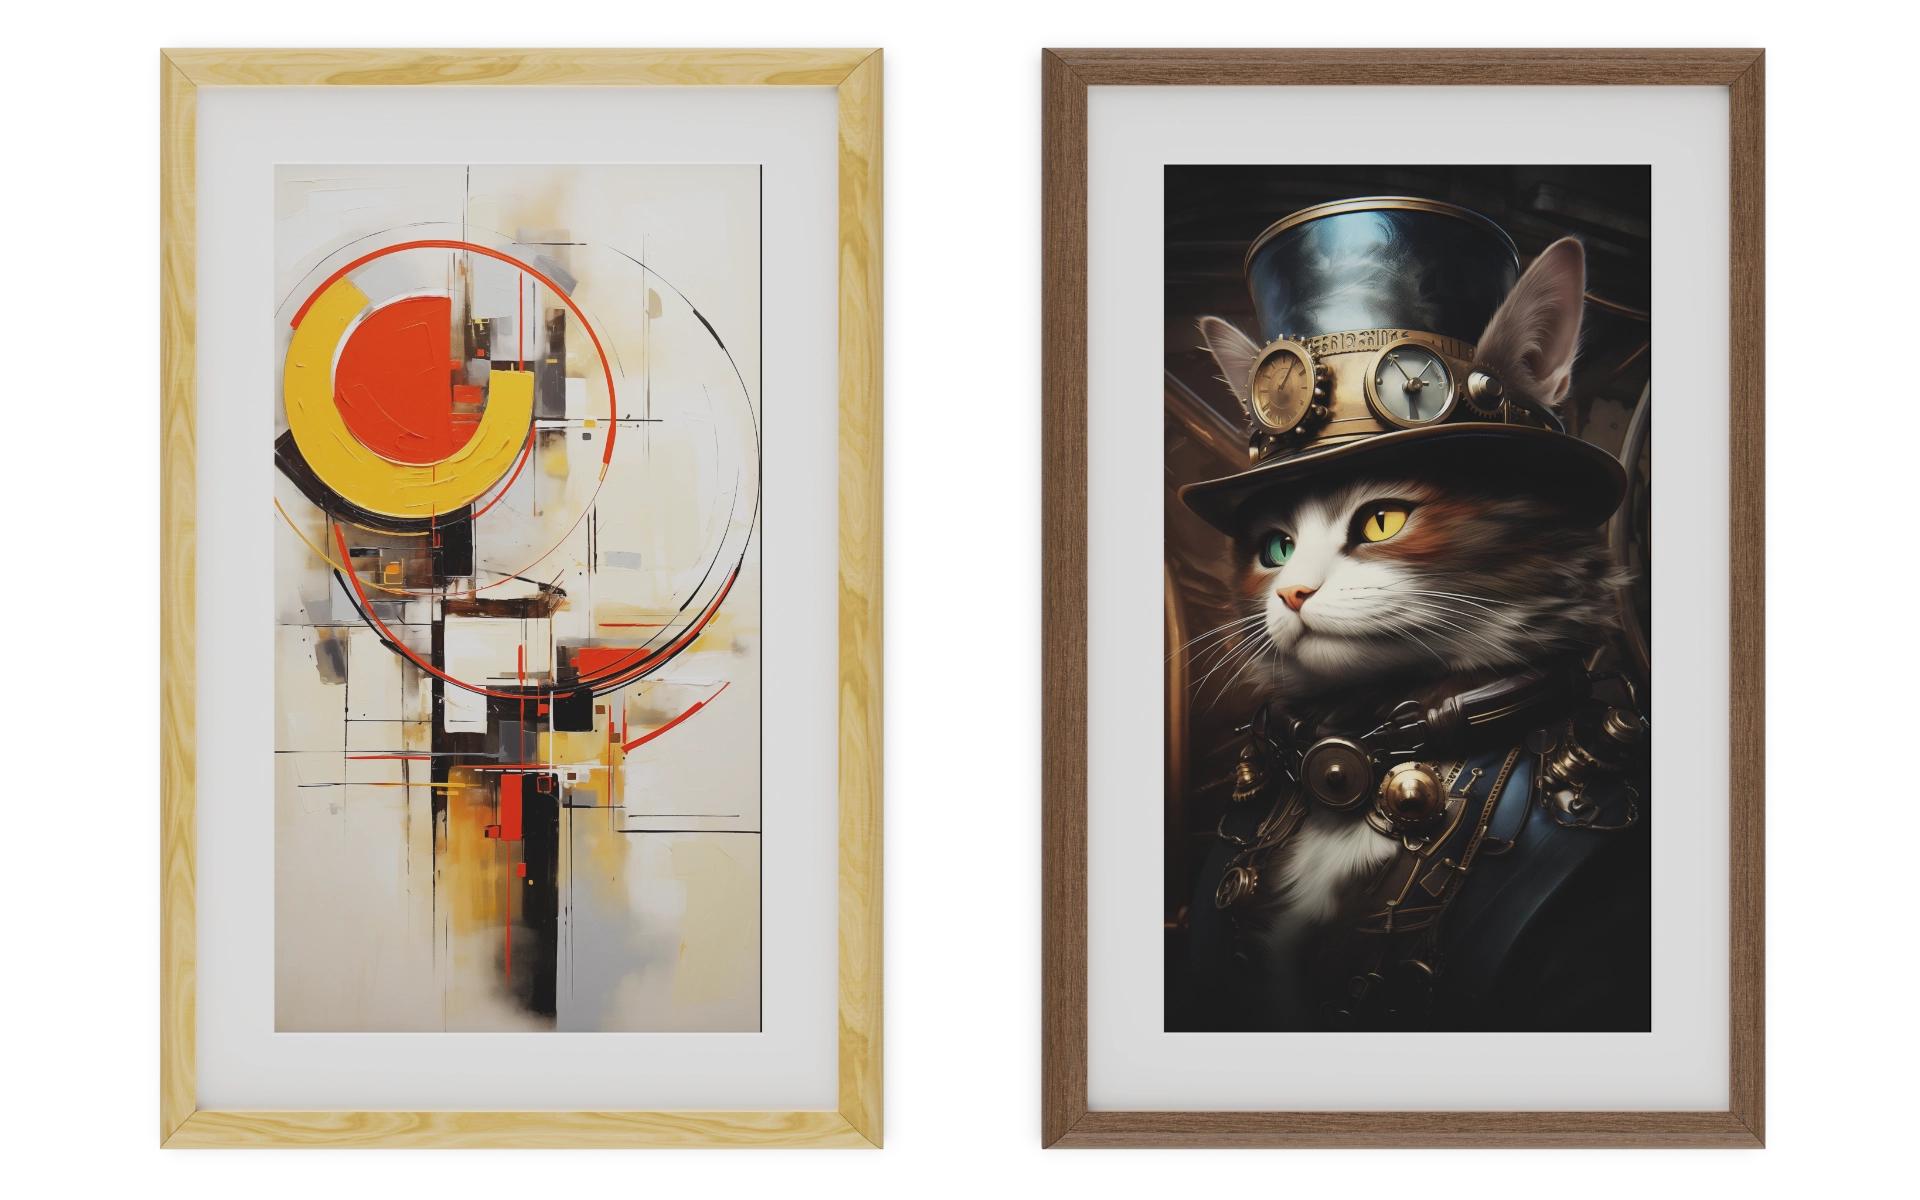
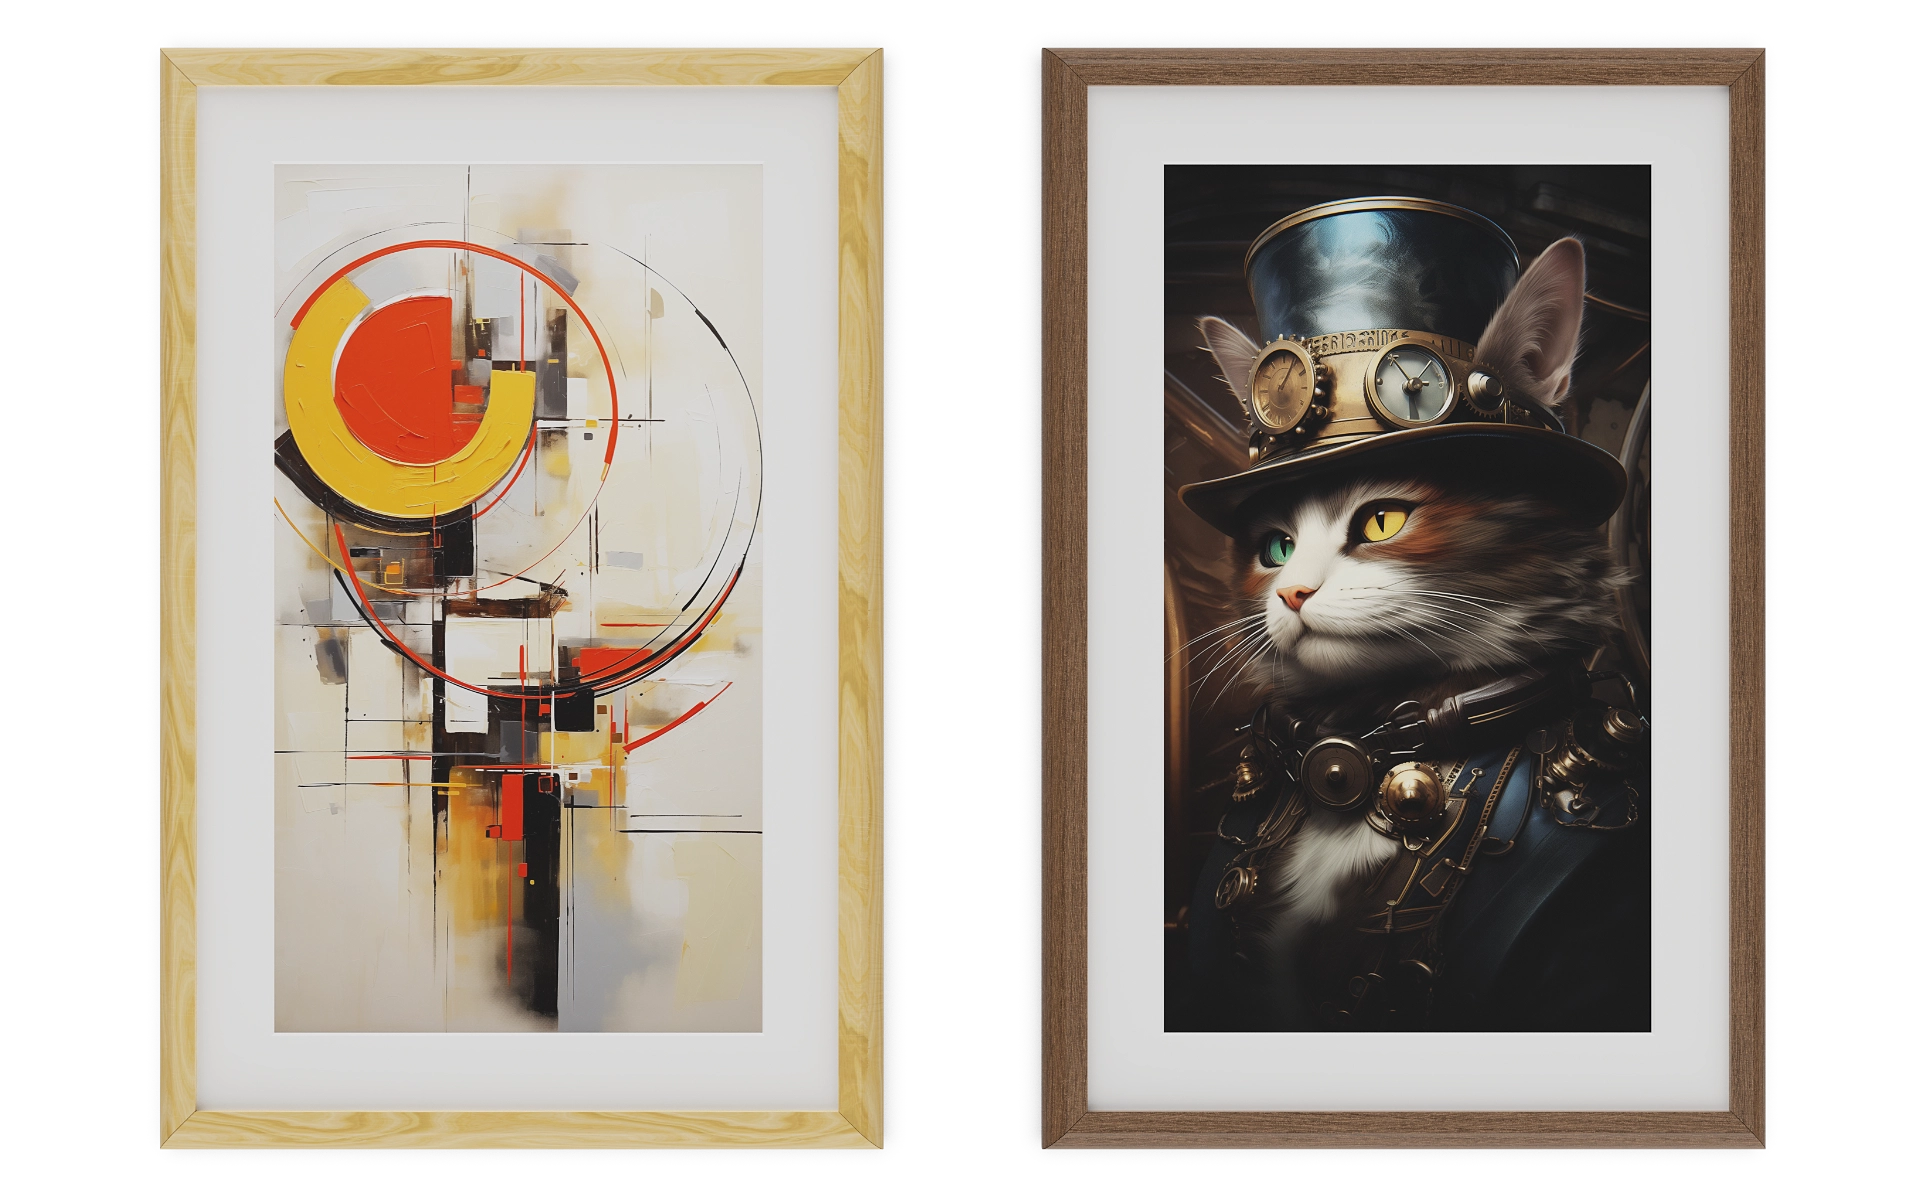
docs: 更新文案細節 (電子紙/畫框開發範圍與描述) 與畫框主圖資產

Changed region(s): [[0.1875, 0.2158, 0.375, 0.8017], [0.375, 0.4008, 0.4062, 0.4933], [0.3438, 0.2467, 0.375, 0.2775]]

diff --git a/work/digital-frame/index.html b/work/digital-frame/index.html
@@ -5,7 +5,7 @@
   <meta charset="utf-8" />
   <meta name="viewport" content="width=device-width,initial-scale=1" />
   <title>類紙感數位畫框與 CMS｜黃鈺峰</title>
-  <meta name="description" content="27 吋類紙感數位畫框：軟體系統開發、感測器硬體與取樣韌體整合，包含早期感測版本與 CMS 連網版本。" />
+  <meta name="description" content="27 吋類紙感數位畫框：畫框端 Android App 開發、環境光感測器硬體與韌體整合，並串接合作夥伴開發的雲端 CMS。" />
   <meta name="theme-color" content="#ffffff" />
   <meta name="referrer" content="strict-origin-when-cross-origin" />
   <link rel="icon"
@@ -350,9 +350,9 @@
     <section class="detail-hero page">
       <span class="project-tag">02 / 顯示與內容管理</span>
       <h1>類紙感數位畫框與 CMS</h1>
-      <p class="detail-subtitle">從環境感測到內容更新，整合畫框的軟體與感測器硬體、韌體。</p>
+      <p class="detail-subtitle">隨環境光調整顯示，透過雲端更新畫作。</p>
       <div class="detail-role">
-        <strong>開發範圍</strong>軟體系統開發、感測器硬體與韌體整合。
+        <strong>開發範圍</strong>畫框端 Android App、環境光感測器硬體與韌體；串接合作夥伴的 CMS。
       </div>
     </section>
 
@@ -402,7 +402,7 @@
 
         <div class="apple-feature-visual">
           <div class="visual-stage">
-            <img src="../../assets/images/cms-ble-setup.webp" alt="雲端 CMS 內容派送與排程更新管線流程圖" loading="lazy" />
+            <img src="../../assets/images/cms-ble-setup.webp" alt="手機 App 以 BLE 搜尋畫框並設定 Wi-Fi 的配網畫面" loading="lazy" />
           </div>
         </div>
       </div>
@@ -430,8 +430,8 @@
             </div>
             <div class="feature-step-row">
               <div class="step-info">
-                <strong>平滑無閃爍調光演算法</strong>
-                <p>平滑化環境光數據傳遞至 Android 顯示核心，消除肉眼可見的亮度跳階。</p>
+                <strong>環境光數據平滑處理</strong>
+                <p>平滑化環境光數據後傳遞至 Android 顯示核心，減少亮度跳階。</p>
               </div>
             </div>
             <div class="feature-step-row">
@@ -445,7 +445,7 @@
 
         <div class="apple-feature-visual">
           <div class="visual-stage">
-            <img src="../../assets/images/cms-ambient-comparison.webp" alt="手機端 BLE 搜尋配對與 Wi-Fi 配網流程畫面"
+            <img src="../../assets/images/cms-ambient-comparison.webp" alt="不同環境色溫下的數位畫框顯示效果對照"
               loading="lazy" />
           </div>
         </div>
@@ -460,7 +460,7 @@
       </div>
       <div class="detail-text">
         <p>
-          CMS 連網版本成功推進至量產銷售階段，完成了畫框軟體開發、感測器硬體與取樣韌體整合，以及雲端內容管理平台的串接落地。
+          CMS 連網版本成功推進至量產銷售階段，完成了畫框端 Android App 開發、感測器硬體與取樣韌體整合，以及由合作夥伴開發的雲端內容管理平台串接。
         </p>
 
         <!-- 實機影片直接嵌入 (YouTube) -->

diff --git a/index.html b/index.html
@@ -62,7 +62,7 @@
           <span class="project-tag">01 / 獨立開發</span>
           <h3 class="featured-title">彩色電子紙桌面立牌</h3>
           <p class="featured-desc">
-            為餐廳桌面促銷設計，透過手機更新展示內容，減少逐一更換的作業。
+            為餐廳桌面促銷設計，透過手機更新展示內容，減少促銷紙張更換作業。
           </p>
         </div>
         <div class="featured-media">
@@ -89,7 +89,7 @@
             <img src="assets/images/cms-digital-frame.webp" alt="27 吋類紙感數位畫框" loading="lazy" />
           </div>
           <p class="card-role">
-            <strong>開發範圍</strong>地端軟體開發、環境光感測硬體與 MCU 取樣韌體整合。
+            <strong>開發範圍</strong>畫框端 Android App 開發、環境光感測硬體與韌體整合，並串接合作夥伴的雲端 CMS。
           </p>
           <a class="arrow-link" href="work/digital-frame/index.html" aria-label="查看類紙感數位畫框與 CMS 開發過程">查看開發過程 →</a>
         </article>
@@ -272,7 +272,7 @@
           </div>
           <div class="more-caption">原始影像（左）／ AI 處理結果（右）</div>
           <p>
-            針對工廠瑕疵檢測之失焦與震動問題，利用 CNN 去交錯與銳化前處理模型，大幅提升辨識良率。
+            針對工廠瑕疵檢測之失焦與震動問題，利用 CNN 去交錯與銳化前處理模型，協助後續瑕疵辨識。
           </p>
         </article>
 

diff --git a/work/color-epaper/index.html b/work/color-epaper/index.html
@@ -332,7 +332,7 @@
     <section class="detail-hero page">
       <span class="project-tag">01 / 獨立全案開發</span>
       <h1>彩色電子紙桌面立牌</h1>
-      <p class="detail-subtitle">為餐廳桌面促銷設計，透過手機更新展示內容，減少逐一更換的作業。</p>
+      <p class="detail-subtitle">為餐廳桌面促銷設計，透過手機更新展示內容，減少促銷紙張更換作業。</p>
       <div class="detail-role">
         <strong>開發範圍</strong>PCB 電路與布局、MCU 韌體、Android App、工業與機構設計。
       </div>
@@ -342,7 +342,7 @@
     <div class="page">
       <figure class="detail-stage-figure">
         <div class="detail-stage detail-stage-epaper">
-          <img src="../../assets/images/color-epaper-link.webp" alt="7.3 吋彩色電子紙桌面立牌正面展示機外觀" loading="eager" />
+          <img src="../../assets/images/color-epaper-link.webp" alt="7.3 吋彩色電子紙桌面立牌與手機上傳畫面" loading="eager" />
         </div>
       </figure>
     </div>
@@ -438,7 +438,7 @@
 
         <div class="apple-feature-visual">
           <div class="visual-stage">
-            <img src="../../assets/images/color-epaper-pcb.webp" alt="主板原理圖與 PCB 布局展開" loading="lazy" />
+            <img src="../../assets/images/color-epaper-pcb.webp" alt="主板 PCB 正反面視圖" loading="lazy" />
           </div>
         </div>
       </div>
